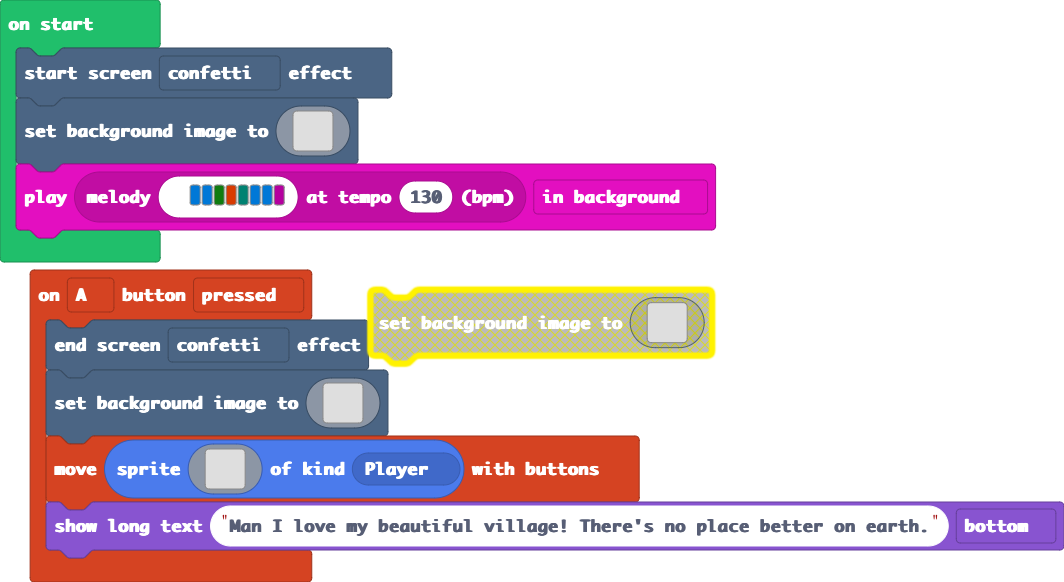
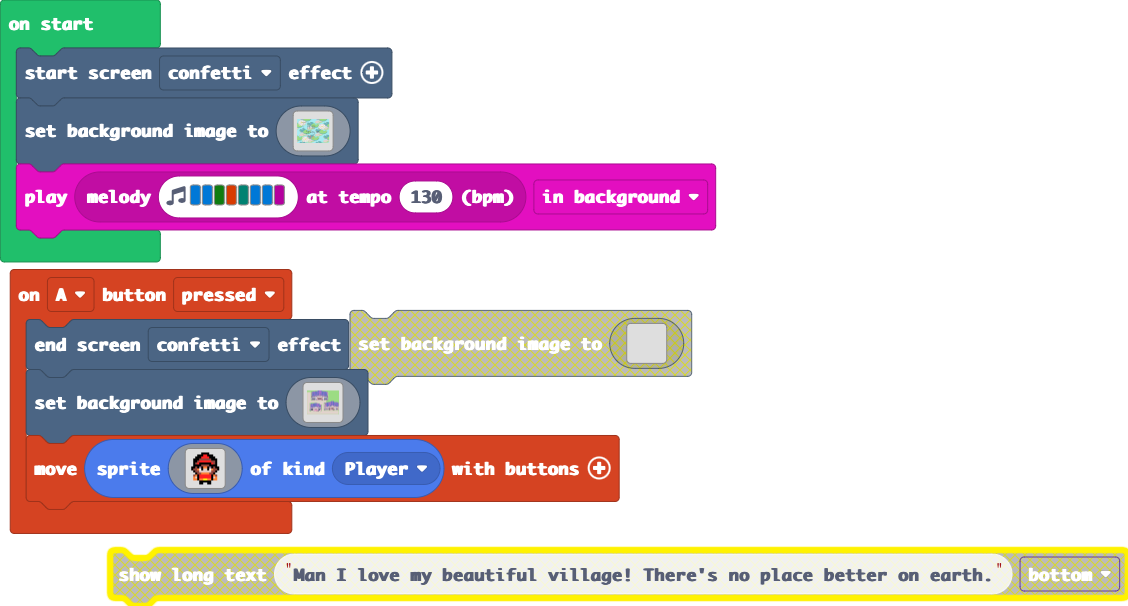
Update main.blocks, main.ts

diff --git a/main.ts b/main.ts
@@ -19,7 +19,6 @@ controller.A.onEvent(ControllerButtonEvent.Pressed, function () {
         . . . . . f f f f f f . . . . . 
         . . . . . f f . . f f . . . . . 
         `, SpriteKind.Player))
-    game.showLongText("Man I love my beautiful village! There's no place better on earth.", DialogLayout.Bottom)
 })
 effects.confetti.startScreenEffect()
 scene.setBackgroundImage(img`
